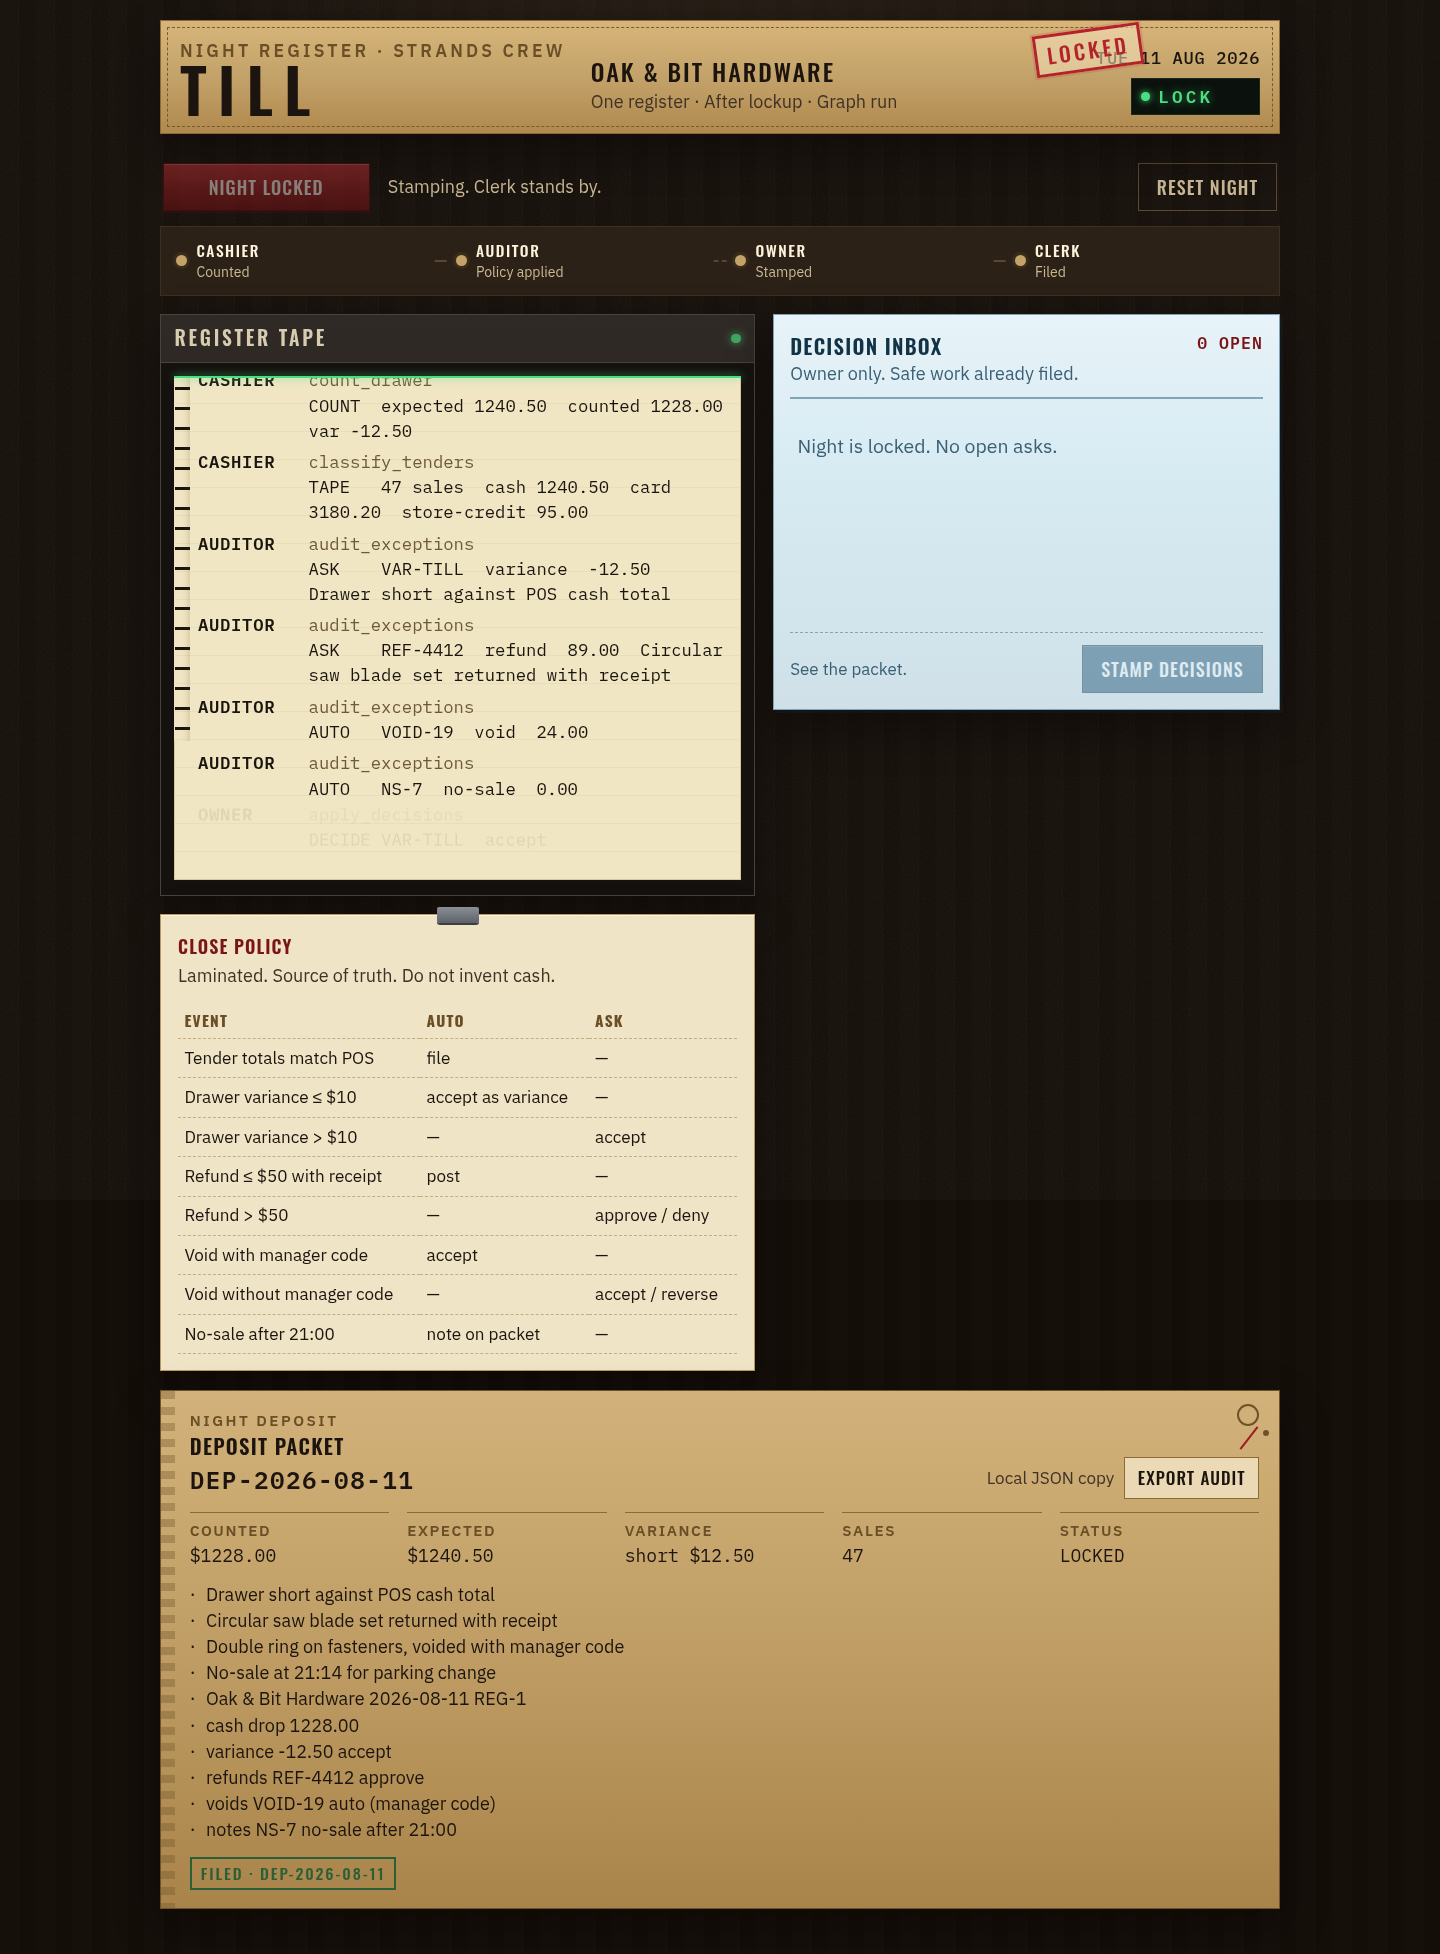
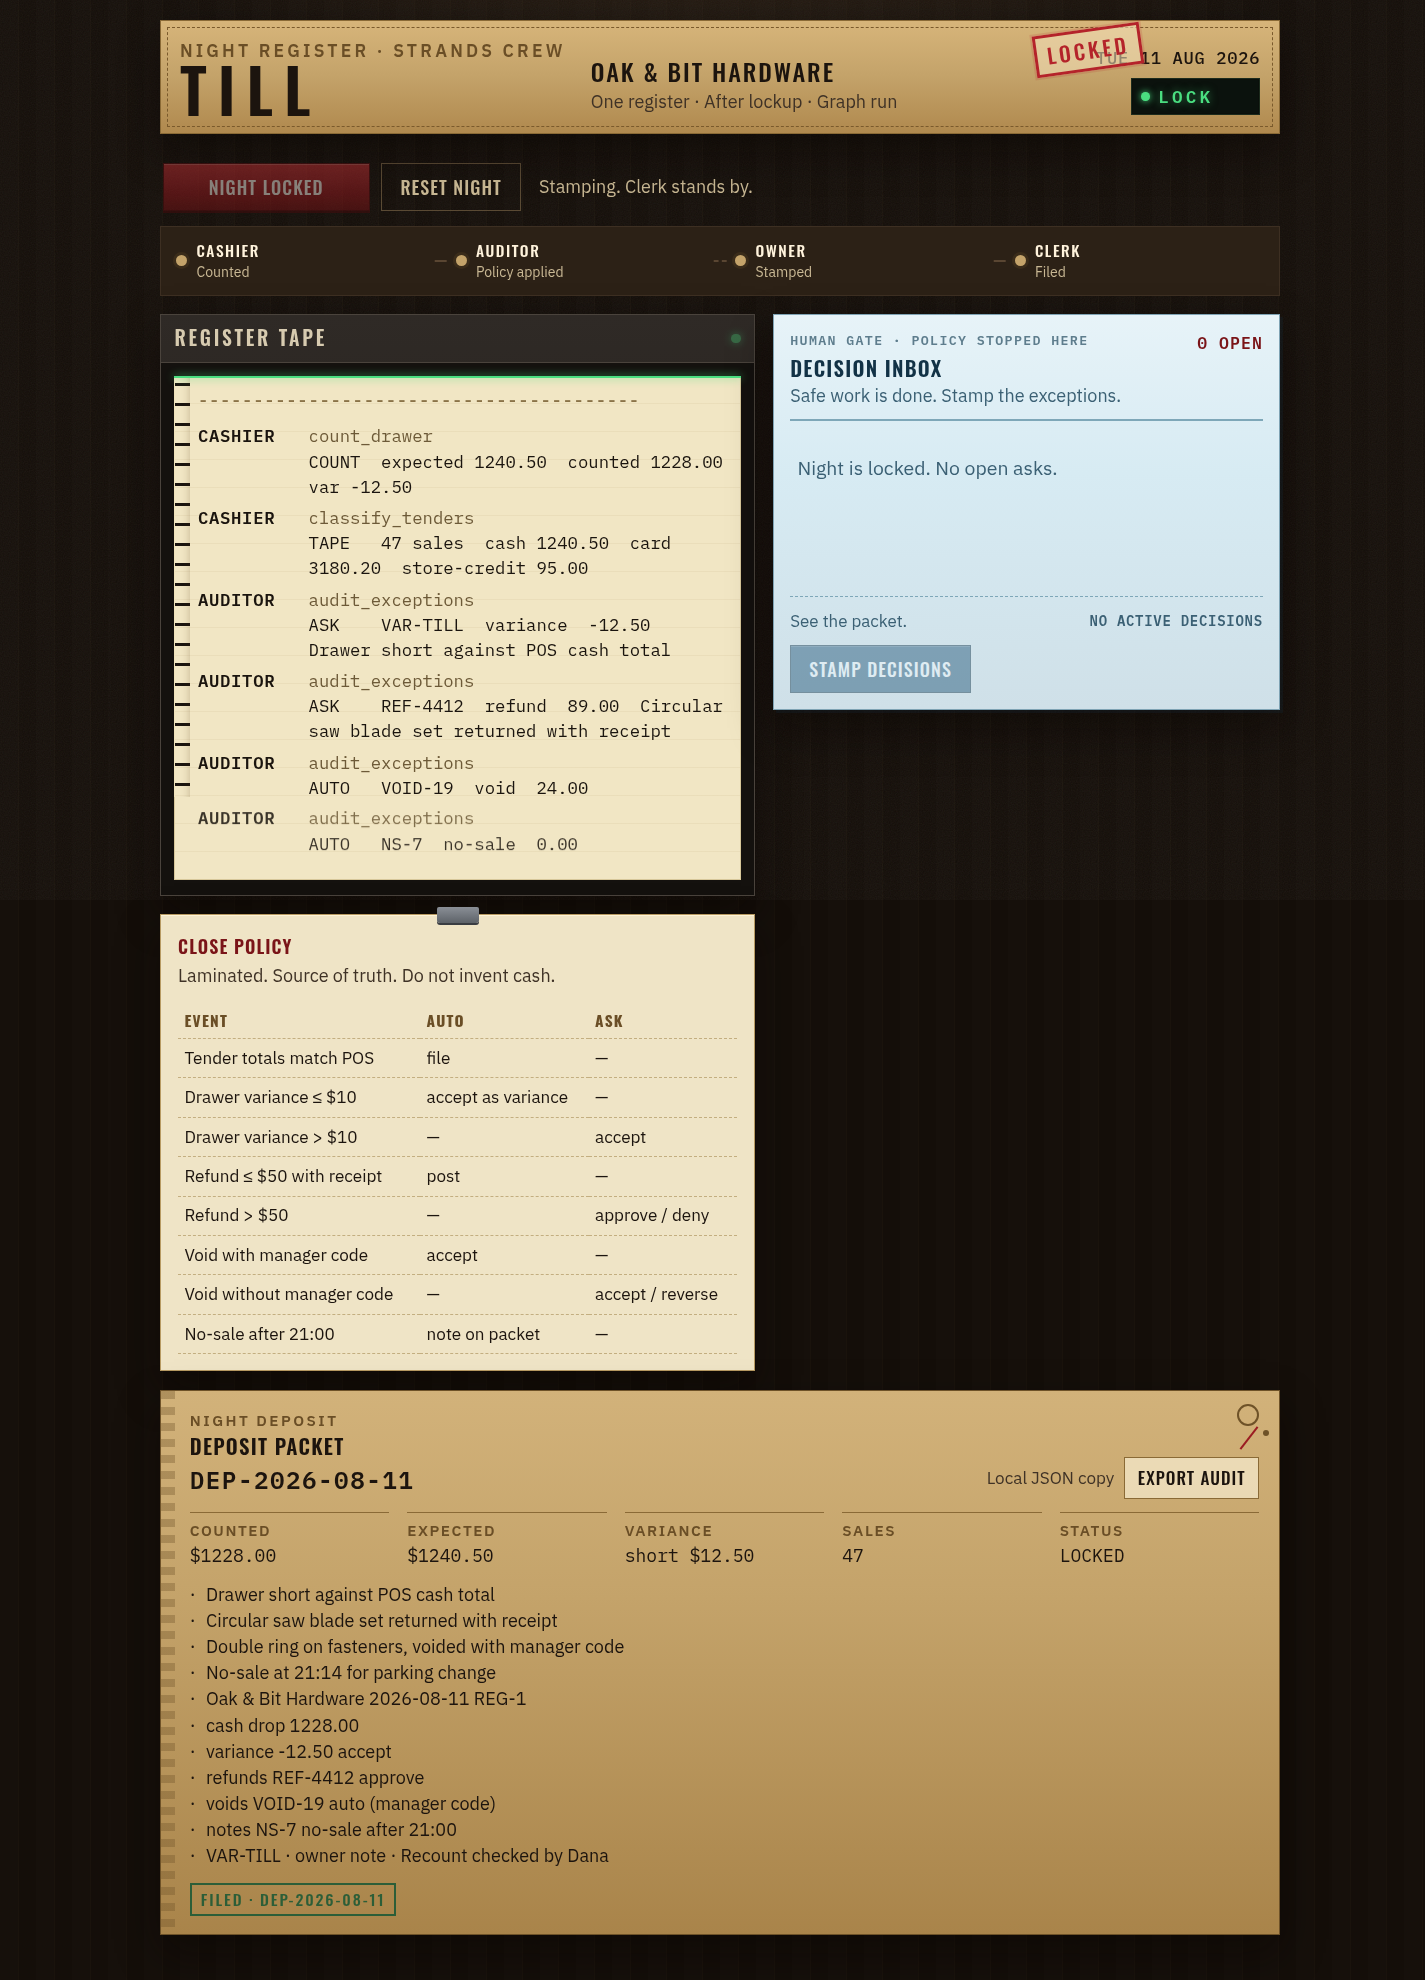
Refine owner gate interface

diff --git a/web/styles.css b/web/styles.css
@@ -307,6 +307,13 @@ button:disabled {
   padding: 0.7rem 0.15rem;
 }
 
+.toolbar-actions {
+  display: flex;
+  flex-wrap: wrap;
+  gap: 0.65rem;
+  flex: 0 0 auto;
+}
+
 .toolbar-note {
   flex: 1 1 16rem;
   color: var(--paper-dim);
@@ -674,6 +681,13 @@ button:disabled {
     var(--shadow);
 }
 
+@media (min-width: 861px) {
+  .inbox {
+    position: sticky;
+    top: 1rem;
+  }
+}
+
 .inbox-head {
   display: flex;
   justify-content: space-between;
@@ -682,6 +696,16 @@ button:disabled {
   margin-bottom: 0.75rem;
   padding-bottom: 0.55rem;
   border-bottom: 2px solid var(--ncr-rule);
+}
+
+.inbox-kicker {
+  margin-bottom: 0.14rem;
+  color: #5e7d8d;
+  font-family: var(--mono);
+  font-size: 0.74rem;
+  font-weight: 600;
+  letter-spacing: 0.1em;
+  text-transform: uppercase;
 }
 
 .inbox h2 {
@@ -703,6 +727,17 @@ button:disabled {
   color: var(--stamp-deep);
 }
 
+.inbox-progress {
+  flex: 0 0 auto;
+  align-self: center;
+  color: #3b6074;
+  font-family: var(--mono);
+  font-size: 0.78rem;
+  font-weight: 600;
+  letter-spacing: 0.05em;
+  text-transform: uppercase;
+}
+
 .cards {
   display: grid;
   gap: 0.7rem;
@@ -714,12 +749,14 @@ button:disabled {
   padding: 0.7rem 0.75rem 0.75rem;
   background: #eef6fa;
   border: 1px solid #8aafc0;
+  border-left: 4px solid #8aafc0;
   box-shadow: 0 1px 0 #fff;
   overflow: hidden;
+  transition: border-color 160ms ease, box-shadow 160ms ease, transform 160ms ease;
 }
 
 .card::before {
-  content: "COPY";
+  content: "OWNER COPY";
   position: absolute;
   right: 0.4rem;
   top: 0.15rem;
@@ -728,6 +765,13 @@ button:disabled {
   letter-spacing: 0.12em;
   color: rgba(36, 89, 122, 0.09);
   pointer-events: none;
+}
+
+.card.is-picked {
+  border-color: var(--carbon);
+  border-left-color: var(--stamp);
+  box-shadow: 0 0 0 2px rgba(36, 89, 122, 0.16), 0 1px 0 #fff;
+  transform: translateX(2px);
 }
 
 .card-top {
@@ -779,6 +823,12 @@ button:disabled {
   text-transform: none;
 }
 
+.card-note > span {
+  display: flex;
+  justify-content: space-between;
+  gap: 0.5rem;
+}
+
 .card-note input {
   width: 100%;
   min-height: 38px;
@@ -789,6 +839,13 @@ button:disabled {
   font: 0.9rem var(--sans);
   letter-spacing: 0;
   text-transform: none;
+  box-shadow: inset 0 1px 2px rgba(22, 58, 82, 0.08);
+  transition: border-color 160ms ease, box-shadow 160ms ease;
+}
+
+.card-note input:focus {
+  border-color: var(--carbon);
+  box-shadow: 0 0 0 3px rgba(36, 89, 122, 0.14), inset 0 1px 2px rgba(22, 58, 82, 0.08);
 }
 
 .card-note input::placeholder {
@@ -1106,11 +1163,19 @@ button:disabled {
     align-items: stretch;
   }
 
+  .toolbar-actions {
+    display: grid;
+    grid-template-columns: minmax(0, 1fr) minmax(0, auto);
+  }
+
   .btn-close,
-  .btn-ghost,
   .btn-stamp,
   .btn-export {
     width: 100%;
+  }
+
+  .toolbar-actions .btn-ghost {
+    width: auto;
   }
 
   .packet-top {
@@ -1163,6 +1228,10 @@ button:disabled {
   .inbox-foot {
     gap: 0.7rem;
   }
+
+  .inbox-progress {
+    align-self: flex-start;
+  }
 }
 
 @media (max-width: 400px) {
@@ -1179,6 +1248,14 @@ button:disabled {
 }
 
 @media (prefers-reduced-motion: reduce) {
+  .card {
+    transition: none;
+  }
+
+  .card.is-picked {
+    transform: none;
+  }
+
   .tape-line.is-new,
   .print-lamp.on,
   .led[data-status="running"] .led-dot {

diff --git a/web/app.js b/web/app.js
@@ -44,6 +44,7 @@
     tapeEmpty: $("#tape-empty"),
     cards: $("#cards"),
     inboxCount: $("#inbox-count"),
+    inboxProgress: $("#inbox-progress"),
     inboxHint: $("#inbox-hint"),
     packet: $("#packet"),
     packetId: $("#packet-id"),
@@ -639,7 +640,13 @@
   function renderCards(night) {
     const cards = night.cards;
     const open = cards.filter(cardOpen);
+    const selected = open.filter((card) => state.picks.has(card.id)).length;
     ui.inboxCount.textContent = `${open.length} open`;
+    ui.inboxProgress.textContent = open.length
+      ? selected === open.length
+        ? "Ready to stamp"
+        : `${selected} / ${open.length} selected`
+      : "No active decisions";
 
     if (!cards.length) {
       const msg =
@@ -662,7 +669,7 @@
       const openCard = cardOpen(card);
       const picked = state.picks.get(card.id) || "";
       const art = document.createElement("article");
-      art.className = "card" + (openCard ? "" : " is-closed");
+      art.className = "card" + (openCard ? "" : " is-closed") + (picked ? " is-picked" : "");
       art.dataset.id = card.id;
 
       const why =
@@ -688,8 +695,8 @@
       const noteValue = state.notes.get(card.id) || card.decisionNote || "";
       const noteControl = openCard
         ? `<label class="card-note">
-            <span>Owner note <em>optional</em></span>
-            <input type="text" data-note-id="${escapeHtml(card.id)}" maxlength="240" value="${escapeHtml(noteValue)}" placeholder="Why this stamp?" autocomplete="off" />
+            <span>Owner note <em>optional · 240 max</em></span>
+            <input type="text" data-note-id="${escapeHtml(card.id)}" maxlength="240" value="${escapeHtml(noteValue)}" placeholder="Why this stamp?" autocomplete="off" aria-label="Optional owner note for ${escapeHtml(card.id)}" />
           </label>`
         : card.decisionNote
           ? `<p class="card-note-readonly"><strong>Owner note</strong> ${escapeHtml(card.decisionNote)}</p>`

diff --git a/web/index.html b/web/index.html
@@ -55,15 +55,17 @@
       </header>
 
       <section class="toolbar" aria-label="Night actions">
-        <button type="button" id="btn-close" class="btn btn-close">
-          Run night close
-        </button>
+        <div class="toolbar-actions">
+          <button type="button" id="btn-close" class="btn btn-close">
+            Run night close
+          </button>
+          <button type="button" id="btn-reset" class="btn btn-ghost">
+            Reset night
+          </button>
+        </div>
         <p class="toolbar-note" id="toolbar-note">
           Strands crew: cashier counts. Auditor applies policy. You stamp the asks. Clerk files.
         </p>
-        <button type="button" id="btn-reset" class="btn btn-ghost">
-          Reset night
-        </button>
       </section>
 
       <ol class="crew" id="crew" aria-label="Crew timeline">
@@ -182,16 +184,18 @@
         <section class="inbox" id="inbox" aria-labelledby="inbox-heading">
           <header class="inbox-head">
             <div>
+              <p class="inbox-kicker">Human gate · policy stopped here</p>
               <h2 id="inbox-heading">Decision Inbox</h2>
-              <p class="inbox-sub">Owner only. Safe work already filed.</p>
+              <p class="inbox-sub">Safe work is done. Stamp the exceptions.</p>
             </div>
             <p class="inbox-count" id="inbox-count">0 open</p>
           </header>
           <div id="cards" class="cards"></div>
           <div class="inbox-foot">
-            <p class="inbox-hint" id="inbox-hint">
+            <p class="inbox-hint" id="inbox-hint" role="status" aria-live="polite">
               Nothing to stamp until the crew hits an ask.
             </p>
+            <p class="inbox-progress" id="inbox-progress">—</p>
             <button type="button" id="btn-decide" class="btn btn-stamp" disabled>
               Stamp decisions
             </button>

diff --git a/tests/test_http.py b/tests/test_http.py
@@ -39,6 +39,9 @@ def test_http_board_is_not_chat():
     assert "Register tape" in body
     assert "Deposit packet" in body
     assert "Export audit" in body
+    assert "Human gate" in body
+    assert "inbox-progress" in body
+    assert 'aria-live="polite"' in body
     assert "<textarea" not in body.lower()
     health = client.get("/health")
     assert health.status_code == 200

diff --git a/docs/STATUS.md b/docs/STATUS.md
@@ -10,7 +10,8 @@ Local demo is built and tested. Submission kit for Devpost is not.
 - FastAPI: `/health`, `/api/night`, `/api/export`, `/api/close`, `/api/decide`, `/api/reset`, static board at `/`
 - Locked close can be exported through `/api/export` or the board's **Export audit** control as a
   local JSON artifact; export is rejected before the packet is locked
-- Board: Run night close, Decision Inbox, register tape, deposit packet. Not a chat home.
+- Board: Run night close, Decision Inbox, register tape, deposit packet, and optional owner
+  rationale notes that travel into the local audit packet. Not a chat home.
 - Judge assets: rendered architecture diagram, waiting-state screenshot, locked-state screenshot,
   and originality/attribution note
 - Apache-2.0 license
@@ -21,10 +22,12 @@ Local demo is built and tested. Submission kit for Devpost is not.
 ## Last test run
 
 ```
-16 passed
+22 passed
 ```
 
-Graph close pauses on `VAR-TILL` + `REF-4412`, packet is null. Decide accept + approve locks `DEP-2026-08-11` with cash-to-drop `1228.00`.
+Graph close pauses on `VAR-TILL` + `REF-4412`, packet is null. Decide accept + approve locks
+`DEP-2026-08-11` with cash-to-drop `1228.00`; an optional owner note is preserved in the tape,
+packet, and local JSON export.
 
 ## Not done (needed to actually submit / score higher)
 
